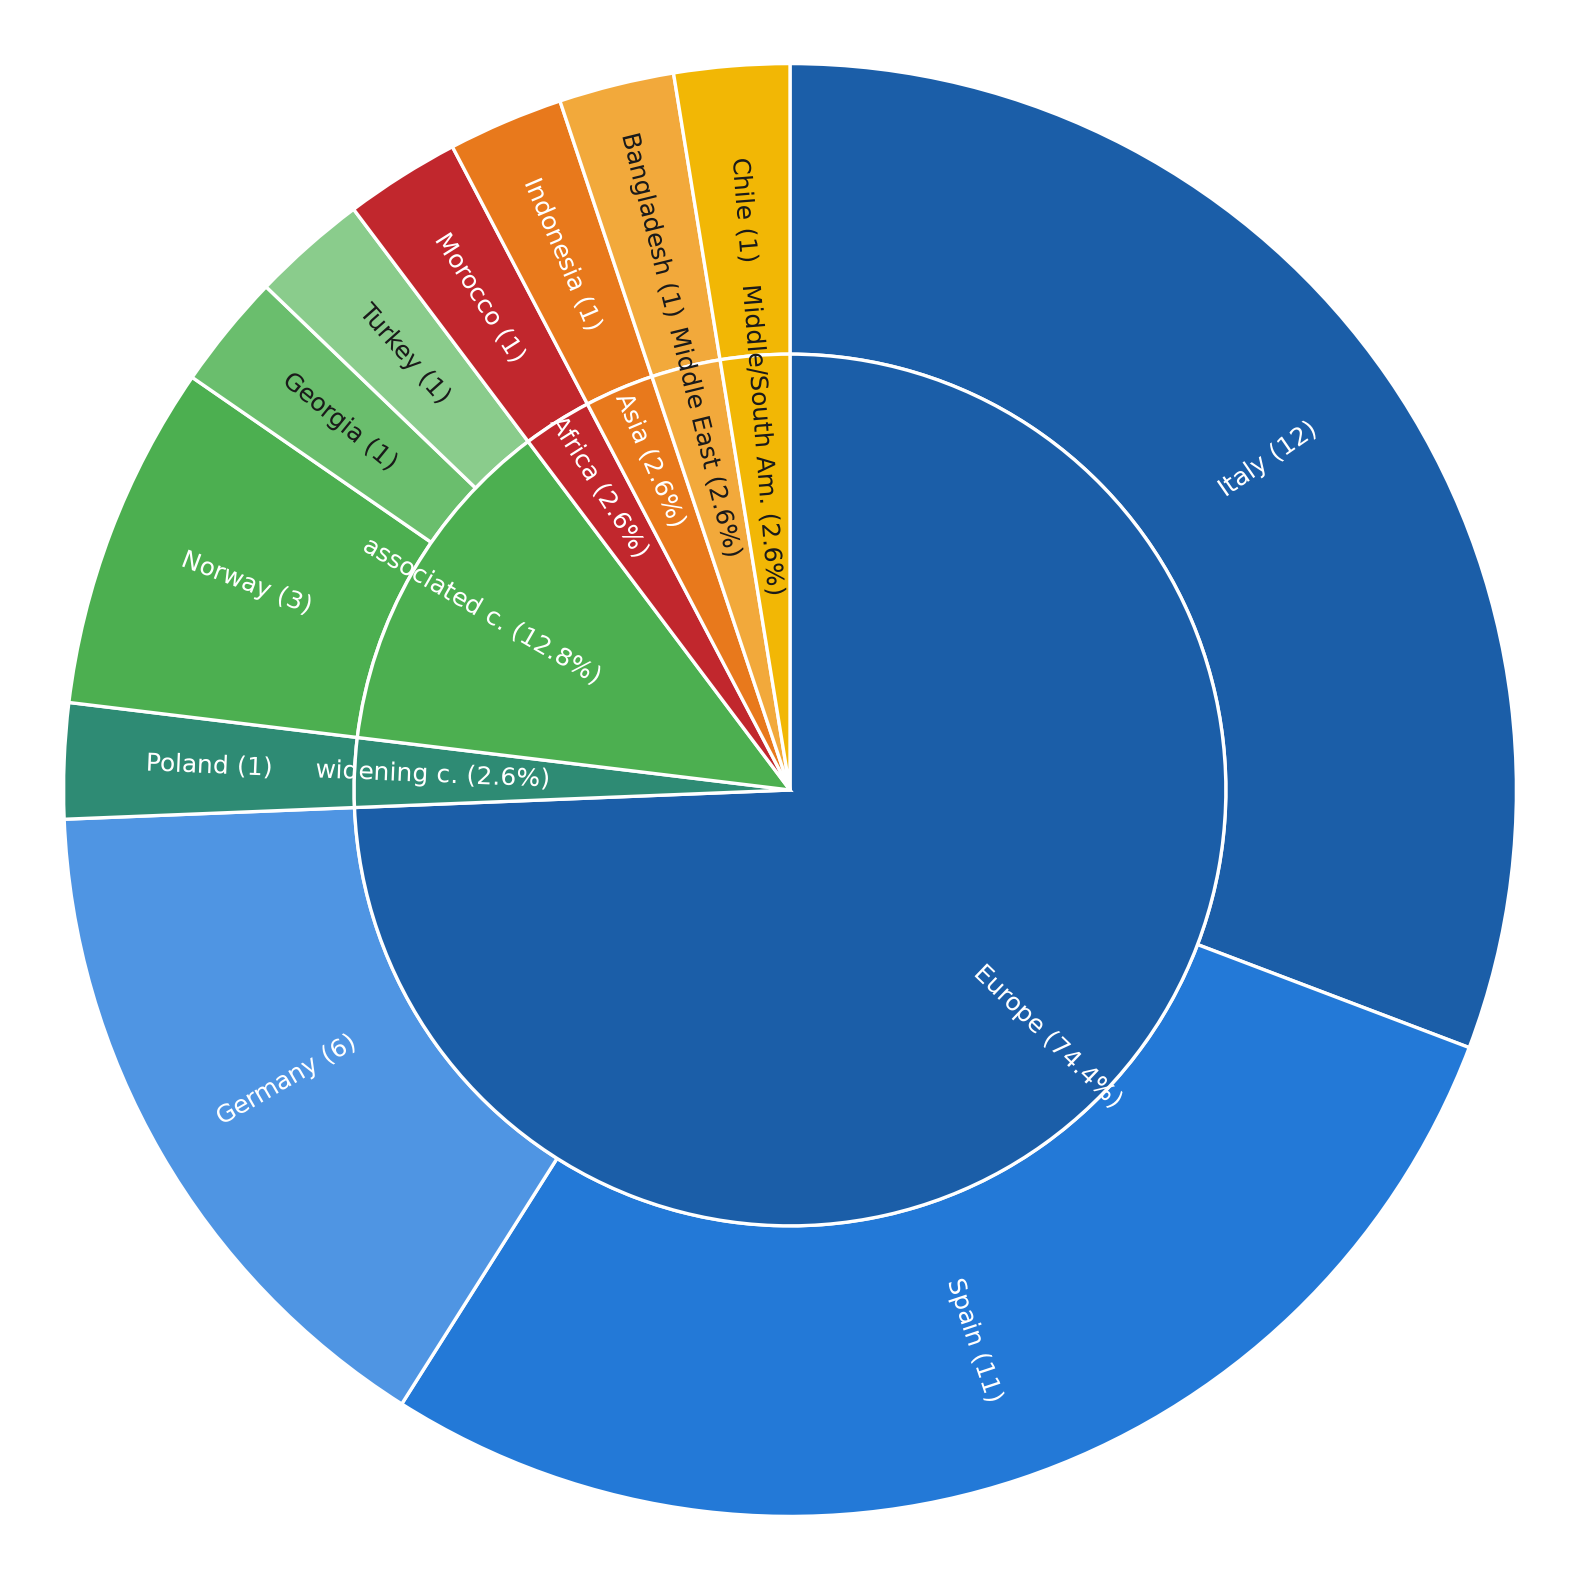
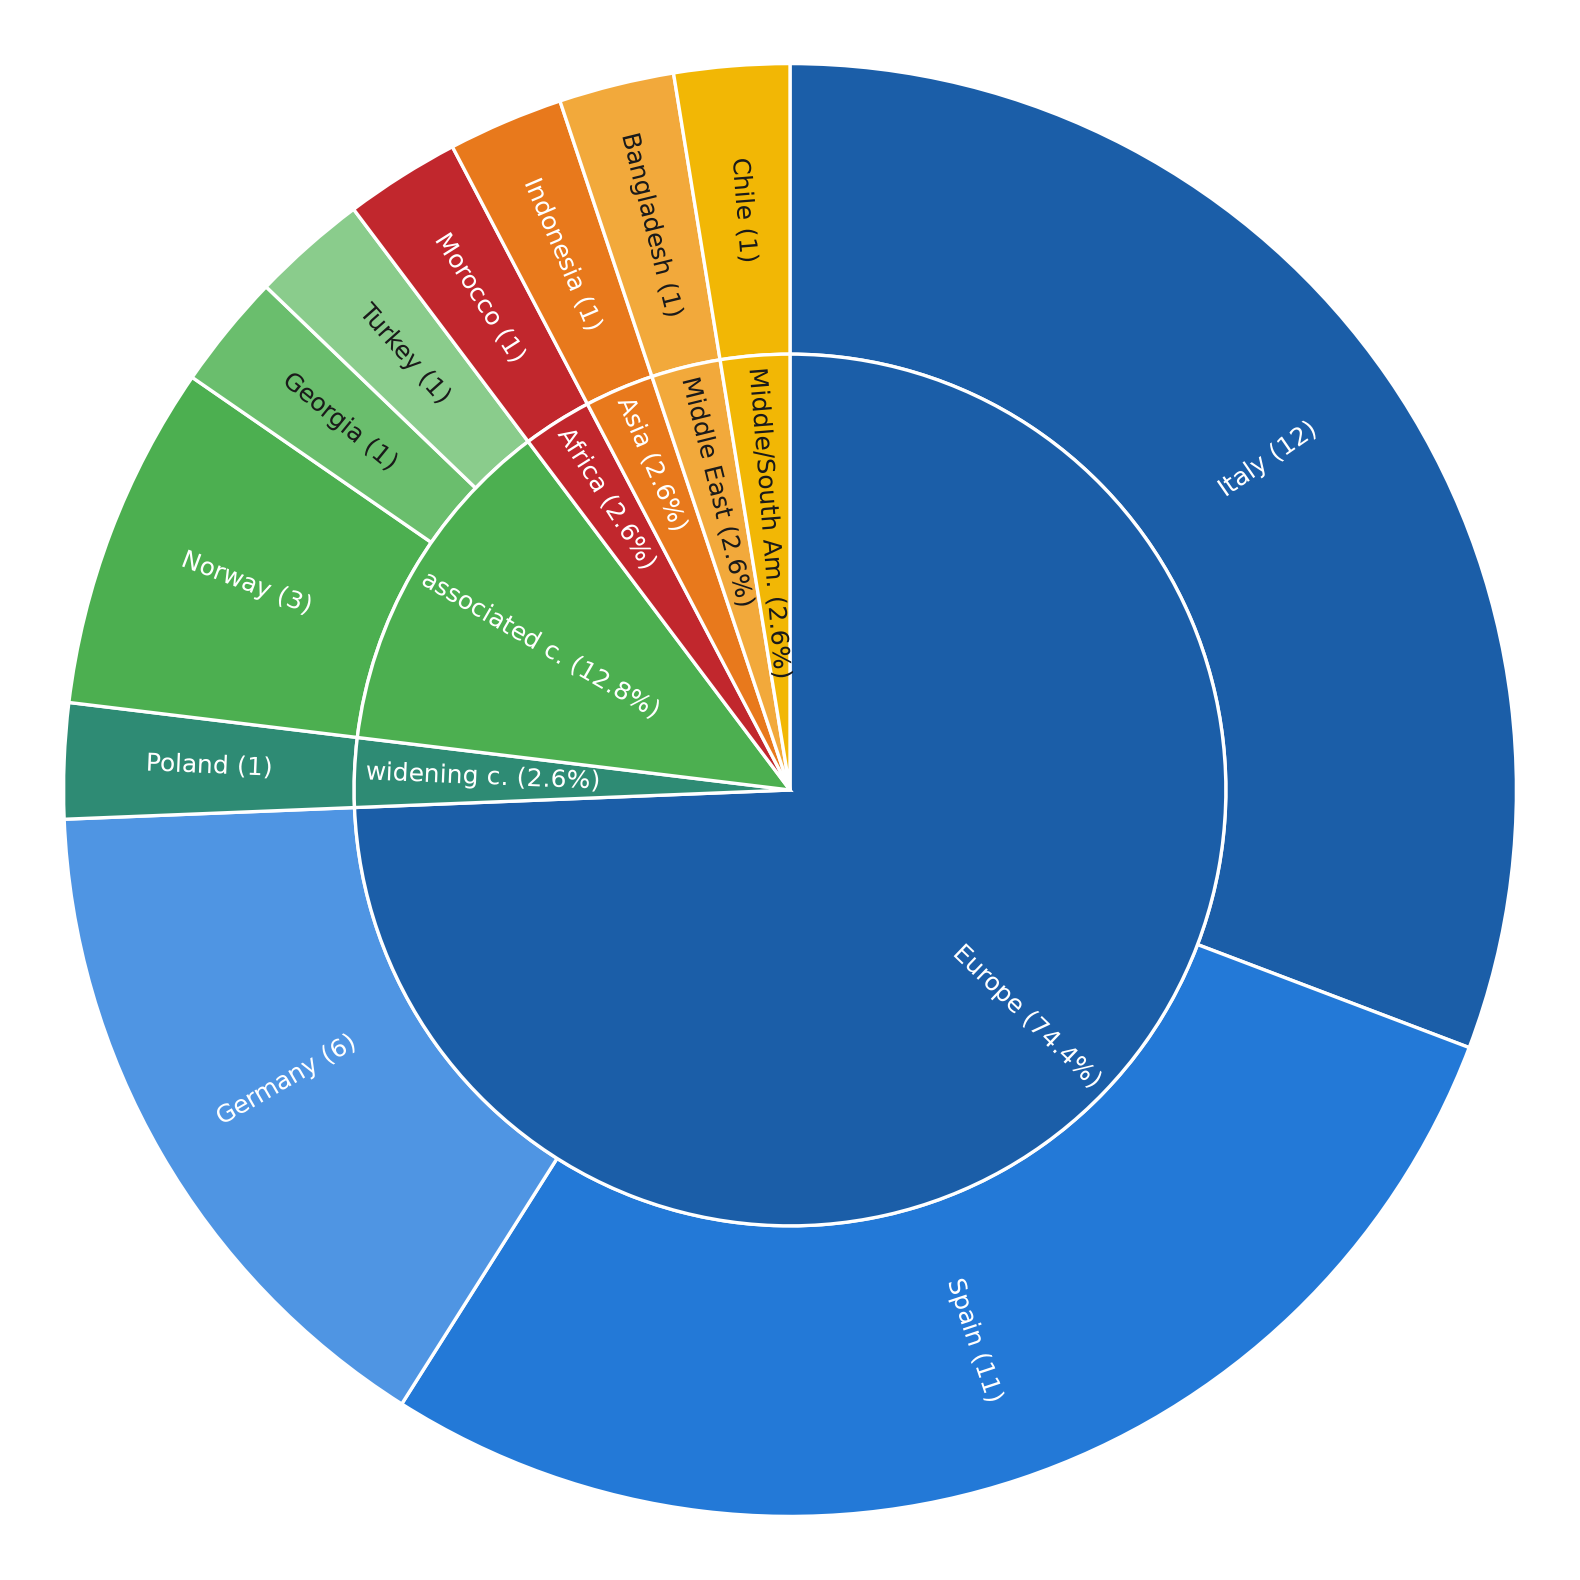
Fix inner-ring label overflow: set axis limits before measuring labels
The pixel-to-data conversion used to measure and reposition inner-ring
labels relied on the axes' current xlim/ylim, but those were only set
after label_wedges ran (still on matplotlib's autoscaled limits at
that point). That mismatch made the "pull label inside" correction
compute against the wrong scale, so long labels still poked past the
inner disk into the outer ring. Axis limits are now fixed once, before
any label is placed or measured, so the measurement matches the final
render exactly. Also replaced the earlier axis-aligned-bbox heuristic
with an exact unrotated-width measurement per label.

Claude-Session: https://claude.ai/code/session_01NCsL25qjT6ciqyFrGjZY9w

diff --git a/CountryOfAffiliation_doublePieChart/double_pie_chart.py b/CountryOfAffiliation_doublePieChart/double_pie_chart.py
@@ -179,33 +179,13 @@ def _normalize_angle(angle_deg: float) -> float:
     return angle_deg - 360 if angle_deg > 180 else angle_deg
 
 
-def _pull_label_inside(ax, text_obj, max_radius):
-    """After rendering, shrink a label's radius just enough that its rendered
-    (rotated) bounding box no longer crosses max_radius from the center."""
-    renderer = ax.figure.canvas.get_renderer()
-    bbox = text_obj.get_window_extent(renderer=renderer)
-    corners = ax.transData.inverted().transform(
-        [(bbox.x0, bbox.y0), (bbox.x1, bbox.y0), (bbox.x1, bbox.y1), (bbox.x0, bbox.y1)]
-    )
-    farthest = max(np.hypot(cx, cy) for cx, cy in corners)
-    if farthest <= max_radius:
-        return
-    x, y = text_obj.get_position()
-    r = np.hypot(x, y)
-    if r == 0:
-        return
-    new_r = max(r - (farthest - max_radius), 0.05)
-    scale = new_r / r
-    text_obj.set_position((x * scale, y * scale))
-
-
 def label_wedges(ax, wedges, labels, label_radius, fontsize, max_radius=None):
     """Write each label inside its wedge, rotated to point outward from center
     (flipped by 180 degrees where needed so text is never upside down). If
-    max_radius is given, labels whose rendered extent would cross it (e.g.
-    long region names poking into the next ring) are pulled closer to the
-    center just enough to fit."""
-    text_objects = []
+    max_radius is given, a label whose outward tip would cross it (e.g. a
+    long region name poking into the next ring) is pulled toward the center
+    just enough to fit, based on its exact (unrotated) rendered text width."""
+    placements = []  # (text_obj, x, y, rotation)
     for wedge, label in zip(wedges, labels):
         angle = (wedge.theta1 + wedge.theta2) / 2.0
         theta = np.deg2rad(angle)
@@ -216,24 +196,42 @@ def label_wedges(ax, wedges, labels, label_radius, fontsize, max_radius=None):
         if rotation > 90 or rotation < -90:
             rotation = _normalize_angle(rotation + 180)
 
-        text_objects.append(
-            ax.text(
-                x,
-                y,
-                label,
-                rotation=rotation,
-                rotation_mode="anchor",
-                ha="center",
-                va="center",
-                fontsize=fontsize,
-                color=readable_text_color(wedge.get_facecolor()),
-            )
+        # Placed unrotated first so its rendered width can be measured
+        # exactly; the real rotation is applied once positioning is final.
+        text_obj = ax.text(
+            x,
+            y,
+            label,
+            rotation=0,
+            rotation_mode="anchor",
+            ha="center",
+            va="center",
+            fontsize=fontsize,
+            color=readable_text_color(wedge.get_facecolor()),
         )
+        placements.append((text_obj, x, y, rotation))
 
     if max_radius is not None:
         ax.figure.canvas.draw()  # ensure a renderer exists to measure text extents
-        for text_obj in text_objects:
-            _pull_label_inside(ax, text_obj, max_radius)
+        renderer = ax.figure.canvas.get_renderer()
+        for text_obj, x, y, _rotation in placements:
+            bbox = text_obj.get_window_extent(renderer=renderer)
+            (x0d, _), (x1d, _) = ax.transData.inverted().transform(
+                [(bbox.x0, bbox.y0), (bbox.x1, bbox.y0)]
+            )
+            half_width = abs(x1d - x0d) / 2
+            anchor_r = np.hypot(x, y)
+            if anchor_r == 0:
+                continue
+            tip_r = anchor_r + half_width
+            if tip_r > max_radius:
+                new_r = max(max_radius - half_width, 0.05)
+                scale = new_r / anchor_r
+                x, y = x * scale, y * scale
+                text_obj.set_position((x, y))
+
+    for text_obj, x, y, rotation in placements:
+        text_obj.set_rotation(rotation)
 
 
 def print_step1(country_counts: pd.Series):
@@ -290,6 +288,14 @@ def plot_double_pie(table: pd.DataFrame, region_totals: pd.Series, region_colors
         counterclock=False,
     )
 
+    # Axis limits must be fixed before measuring any label's rendered extent
+    # below, since that measurement converts pixels to data coordinates using
+    # the axes' *current* limits -- if set later, the conversion used during
+    # measurement wouldn't match the final rendering and labels would drift.
+    margin = OUTER_RADIUS + 0.15
+    ax.set_xlim(-margin, margin)
+    ax.set_ylim(-margin, margin)
+
     outer_labels = [f"{c} ({n})" for c, n in zip(table["Country"], table["Count"])]
     inner_labels = [
         f"{INNER_LABEL_ABBREVIATIONS.get(r, r)} ({n / total * 100:.1f}%)"
@@ -322,10 +328,6 @@ def plot_double_pie(table: pd.DataFrame, region_totals: pd.Series, region_colors
         frameon=False,
     )
     legend.set_visible(False)
-
-    margin = OUTER_RADIUS + 0.15
-    ax.set_xlim(-margin, margin)
-    ax.set_ylim(-margin, margin)
     fig.savefig(OUTPUT_FILE, dpi=200, bbox_inches="tight")
     print(f"Chart gespeichert unter: {OUTPUT_FILE}")
 